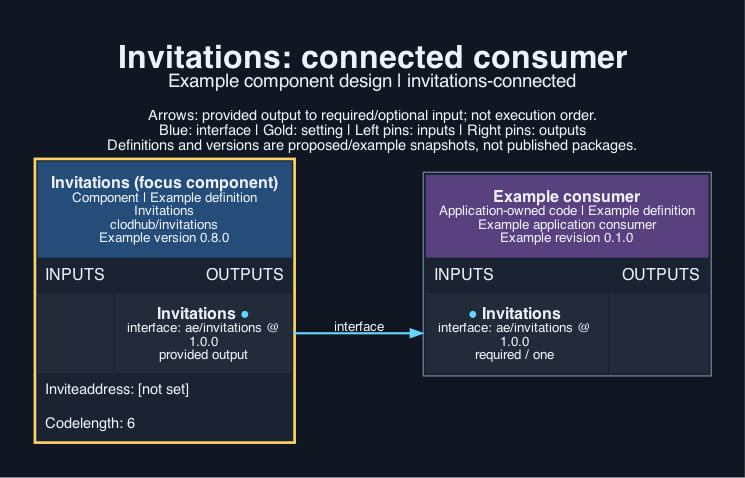
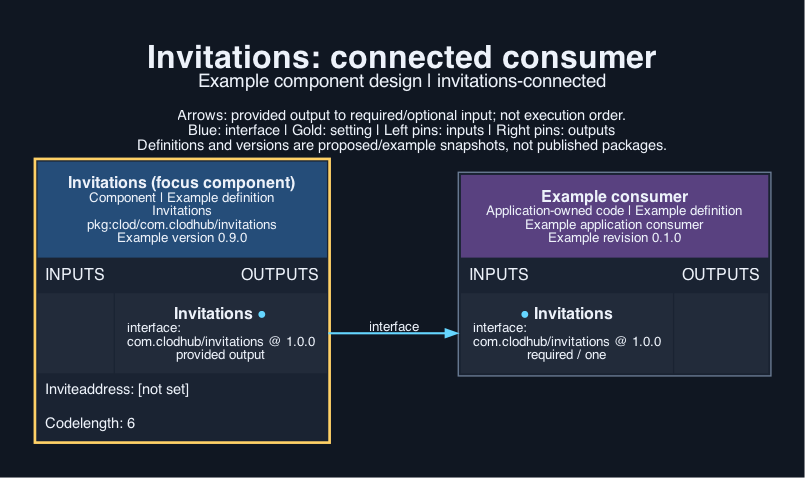
invitations 0.9.0: package URL names, clod, com.clodhub interface types and Kotlin packages

diff --git a/tests/android/Main.kt b/tests/android/Main.kt
@@ -1,5 +1,5 @@
-import ae.invitations.Invitation
-import ae.invitations.Invitations
+import com.clodhub.invitations.Invitation
+import com.clodhub.invitations.Invitations
 
 // The cases of tests/fixtures/invites.json, written out so no JSON library is needed.
 fun main() {

diff --git a/implementation/android/src/main/java/com/clodhub/invitations/Invitations.kt b/implementation/android/src/main/java/com/clodhub/invitations/Invitations.kt
@@ -1,4 +1,4 @@
-package ae.invitations
+package com.clodhub.invitations
 
 data class Invitation(val code: String, val roomId: String?)
 

diff --git a/INSTRUCTIONS.md b/INSTRUCTIONS.md
@@ -3,11 +3,11 @@
 ## For the agent
 Select this component when people join by link, typed code or scannable code. Set `inviteAddress` from the application's own web address (ask the developer; it is not a secret) and keep `codeLength` at 6 unless the room count demands more. Connect it to the room directory (codes) and to the host screens (share and scan). If the application needs a drawn scannable code, choose a renderer for each platform separately.
 
-- Select package `clodhub/invitations` version `0.8.0`.
+- Select package `pkg:clod/com.clodhub/invitations` version `0.9.0`.
 - Settings to configure:
   - `inviteAddress` (string, address; optional)
   - `codeLength` (integer; optional; default `6`)
-- Connect the provided `invitations` (ae/invitations 1.0.0) to the consumer that needs it.
+- Connect the provided `invitations` (com.clodhub/invitations 1.0.0) to the consumer that needs it.
 - No accounts or keys are needed.
 
 ## For the developer
@@ -19,4 +19,4 @@ From the component directory:
 - `node --test tests/web.test.ts` (web, required-local; tools: node 26.5)
 - `python3 tests/native.py apple` (apple, platform; tools: python3 3.12, swiftc 6.4)
 - `python3 tests/native.py android` (android, platform; tools: python3 3.12, kotlinc 2.2, java 26.0)
-- `python3 -m aepm review <digest> --store STORE --policy POLICY --trusted --allow-network` checks an archive fetched with `python3 -m aepm fetch clodhub/invitations@VERSION --store STORE --from https://clodhub.com` and runs its suites.
+- `python3 -m clod review <digest> --store STORE --policy POLICY --trusted --allow-network` checks an archive fetched with `python3 -m clod fetch invitations@VERSION --store STORE --from https://clodhub.com` and runs its suites.

diff --git a/CONTRACT.md b/CONTRACT.md
@@ -14,7 +14,7 @@ Two settings. `inviteAddress` (address grammar, optional: without it no links ar
 ## Artefacts and dependencies
 `component.json` maps every `implementation/` source into `components/invitations/`:
 
-- `implementation/android/src/main/java/ae/invitations/Invitations.kt` -> `components/invitations/android/src/main/java/ae/invitations/Invitations.kt`
+- `implementation/android/src/main/java/com/clodhub/invitations/Invitations.kt` -> `components/invitations/android/src/main/java/com/clodhub/invitations/Invitations.kt`
 - `implementation/apple/Sources/Invitations.swift` -> `components/invitations/apple/Sources/Invitations.swift`
 - `implementation/server/invitations.ts` -> `components/invitations/server/invitations.ts`
 - `implementation/web/share.ts` -> `components/invitations/web/share.ts`
@@ -23,7 +23,7 @@ Dependencies: none.
 `tools.lock.json` pins verification tools: node 26.5, python3 3.12, swiftc 6.4, kotlinc 2.2, java 26.0. Licence wording remains deferred.
 
 ## Provided interfaces
-- `interfaces/invitations.json` defines `invitations` (ae/invitations) version 1.0.0 as an OpenRPC 1.3.2 document: the TypeScript functions (tagged `typescript`) and the native `Invitations.*` functions (tagged `swift` and `kotlin`), with the settings, invitation, link grammar and share result as JSON Schema 2020-12.
+- `interfaces/invitations.json` defines `invitations` (com.clodhub/invitations) version 1.0.0 as an OpenRPC 1.3.2 document: the TypeScript functions (tagged `typescript`) and the native `Invitations.*` functions (tagged `swift` and `kotlin`), with the settings, invitation, link grammar and share result as JSON Schema 2020-12.
 
 ## Required interfaces
 None.

diff --git a/SOURCE.md b/SOURCE.md
@@ -11,7 +11,7 @@ What the recipe has is small: one invitation address from the environment (`INVI
   - `scanPayload`: the text and correction level `M` that `DisplayScreen.swift` lines 605-612 hands to Core Image.
   - `generateCode`, `normaliseCode`, `isValidCode`, `formatCode`, `inviteLink`, `parseInvite`: new (`generated-platform`). The recipe has no codes; they are added because the batch asks for invitation links and codes for a room. `normaliseCode` follows the same rule as the room-directory component's join by code.
 - `implementation/web/share.ts`: new (`generated-platform`): system share sheet or clipboard, with injected environment.
-- `implementation/apple/Sources/Invitations.swift`, `implementation/android/src/main/java/ae/invitations/Invitations.kt`: ports of `invitations.ts`, marked `generated-platform`. The Swift scan payload is the data `DisplayScreen.swift` line 607 builds (`Data(text.utf8)`). The Kotlin port is not compiled on the authoring machine (no kotlinc).
+- `implementation/apple/Sources/Invitations.swift`, `implementation/android/src/main/java/com/clodhub/invitations/Invitations.kt`: ports of `invitations.ts`, marked `generated-platform`. The Swift scan payload is the data `DisplayScreen.swift` line 607 builds (`Data(text.utf8)`). The Kotlin port is not compiled on the authoring machine (no kotlinc).
 
 ## Left behind in the recipe
 

diff --git a/.opencode/knowledge/00-index.md b/.opencode/knowledge/00-index.md
@@ -1,5 +1,5 @@
 # invitations ownership
 
 Repository: https://github.com/clodhub/invitations.git.
-Current code: `implementation/android/src/main/java/ae/invitations/Invitations.kt`, `implementation/apple/Sources/Invitations.swift`, `implementation/server/invitations.ts`, `implementation/web/share.ts`.
+Current code: `implementation/android/src/main/java/com/clodhub/invitations/Invitations.kt`, `implementation/apple/Sources/Invitations.swift`, `implementation/server/invitations.ts`, `implementation/web/share.ts`.
 `component.json`, `tools.lock.json` and `visual/` are generated from `authoring/spec.json`; edit the spec, not the generated files. `CONTRACT.md`, `INSTRUCTIONS.md` and `SOURCE.md` are hand-written and kept on regeneration.

diff --git a/visual/output/description.md b/visual/output/description.md
@@ -1,3 +1,3 @@
 # Invitations
 
-The invitations component at version 0.8.0 provides ae/invitations version 1.0.0 to an illustrative application consumer. The single arrow runs from the named output to its required input. Setting values shown are placeholders and secrets appear only as references.
+The invitations component at version 0.9.0 provides com.clodhub/invitations version 1.0.0 to an illustrative application consumer. The single arrow runs from the named output to its required input. Setting values shown are placeholders and secrets appear only as references.

diff --git a/.opencode/knowledge/workflow.md b/.opencode/knowledge/workflow.md
@@ -2,5 +2,5 @@
 
 Repository: `clodhub/invitations`. Licence: `Apache-2.0` (`LICENCE`, `NOTICE`).
 Suite commands (from the package root): `node --test tests/web.test.ts`; `python3 tests/native.py apple`; `python3 tests/native.py android`.
-Review a fetched archive: `python3 -m aepm review <digest> --store STORE --policy POLICY --trusted --allow-network`.
+Review a fetched archive: `python3 -m clod review <digest> --store STORE --policy POLICY --trusted --allow-network`.
 Always run Python with `-B`; never write bytecode into the repository.
